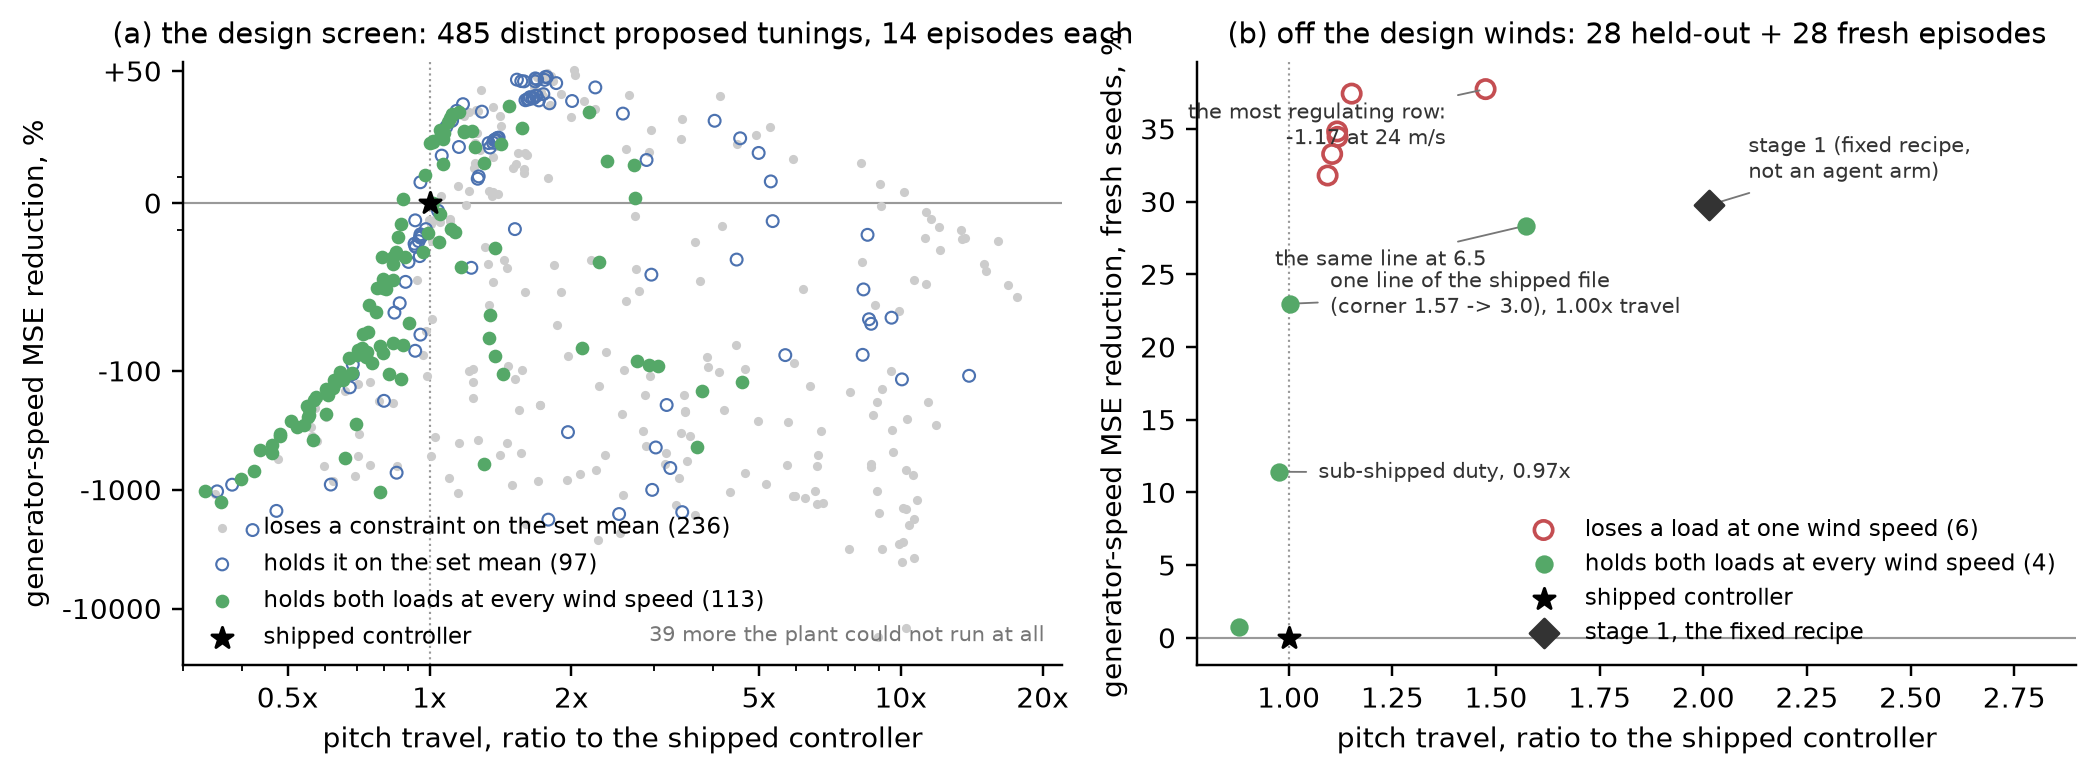
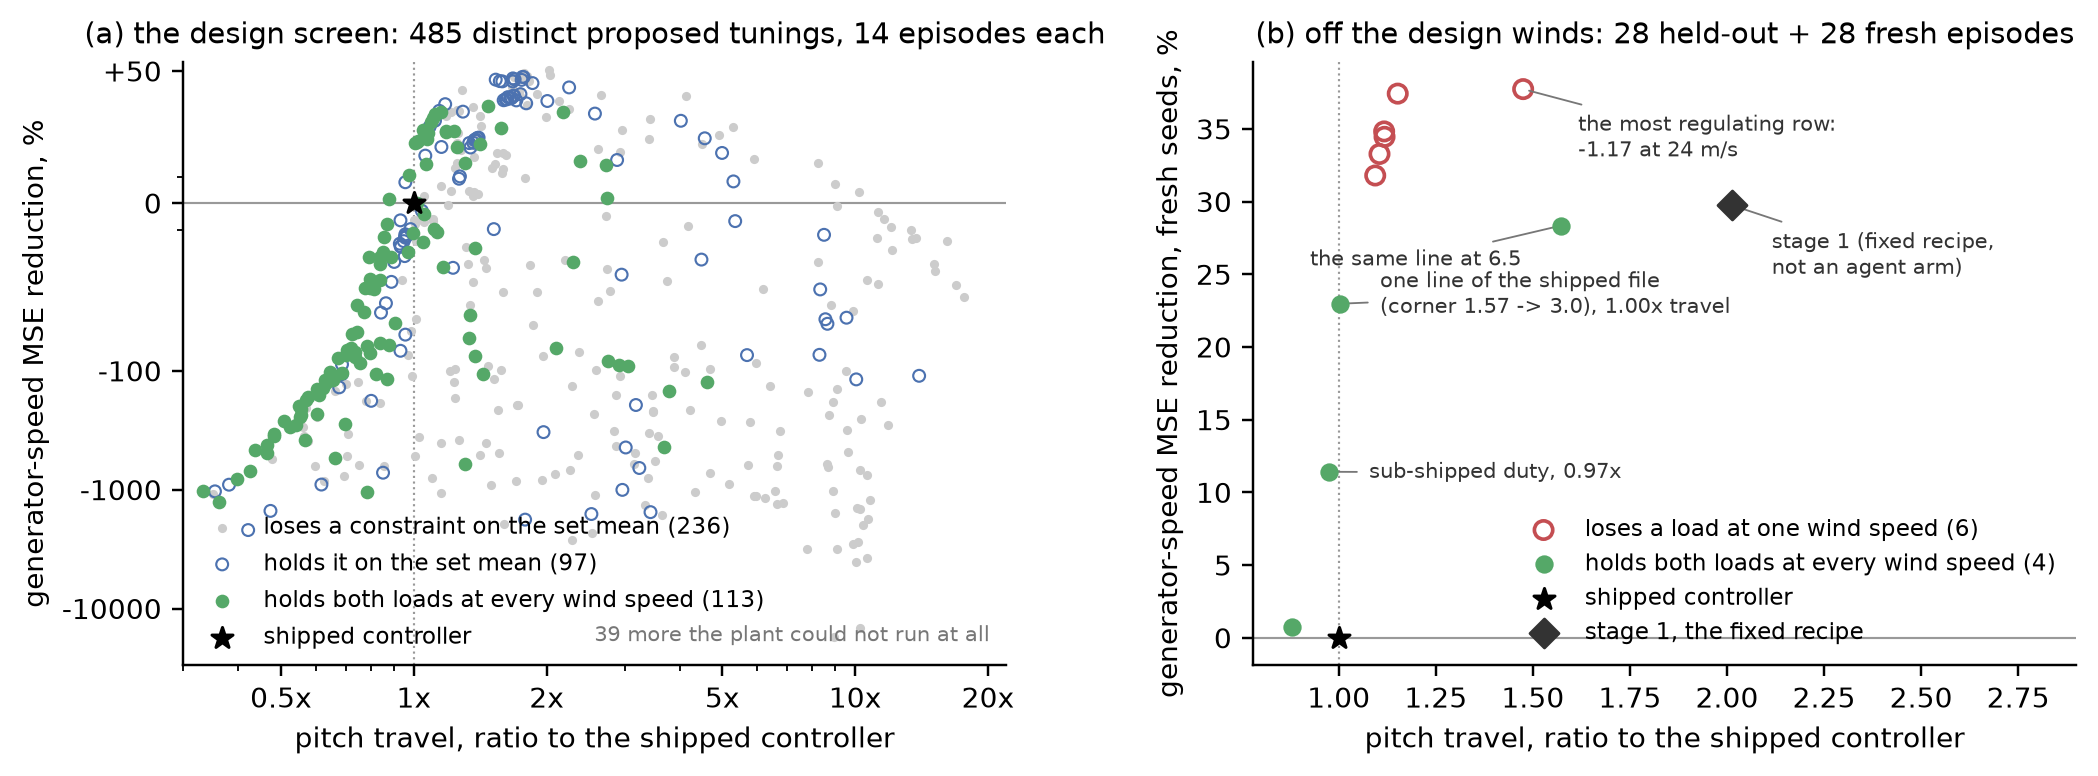
manuscript figures: the proposer outside the deterministic box in Fig. 1, labels off the points in Fig. 2(b), square panels in Fig. 3, references and appendix on new pages

diff --git a/docs/manuscript/main.tex b/docs/manuscript/main.tex
@@ -107,20 +107,23 @@ Figure~\ref{fig:loop} is the whole method. A proposer writes a candidate as a JS
 \centering
 \resizebox{\linewidth}{!}{%
 \begin{tikzpicture}[font=\small, node distance=5mm and 7mm,
-  box/.style={draw, rounded corners=2pt, align=center, inner sep=4pt, minimum height=9mm},
+  box/.style={draw, rounded corners=2pt, align=center, inner sep=4pt, text width=36mm, minimum height=17mm},
   arr/.style={-{Latex[length=2mm]}, thick}]
-  \node[box, fill=red!8] (agent) {proposer\\(the LLM agent, or a classical search)};
-  \node[box, right=of agent] (file) {candidate\\a complete tuning file: five ROSCO parameters};
+  % the deterministic half is two rows of boxes; the proposer stands outside it on the left, centred on the
+  % two rows, and its two arrows run in the gap between it and the dashed box
+  \node[box] (file) {candidate\\a complete tuning file: five ROSCO parameters};
   \node[box, right=of file] (sim) {OpenFAST, 600\,s\\7 wind speeds $\times$ 2 seeds, paired to shipped};
-  \node[box, below=of sim] (metrics) {four reductions, energy, travel, duty;\\per-wind load terms; bootstrap intervals};
-  \node[box, left=of metrics] (rule) {constrained rule\\maximise regulation s.t. loads, energy no worse};
-  \node[box, left=of rule] (hist) {history\\every candidate, kept or not};
-  \draw[arr] (agent) -- (file);
+  \node[box, right=of sim] (metrics) {four reductions, energy, travel, duty; per-wind load terms; bootstrap intervals};
+  \node[box, below=of metrics] (rule) {constrained rule\\maximise regulation s.t.\ loads, energy no worse};
+  \node[box, anchor=north] (hist) at (rule.north -| sim) {history\\every candidate,\\kept or not};
+  \node[box, fill=red!8, text width=28mm, anchor=east, xshift=-7mm] (agent)
+        at ($(file.west)!0.5!(file.west |- hist.west)$) {proposer\\(the LLM agent, or a classical search)};
+  \draw[arr] ([yshift=3mm]agent.east) -- ++(3.5mm,0) |- (file.west);
   \draw[arr] (file) -- (sim);
   \draw[arr] (sim) -- (metrics);
   \draw[arr] (metrics) -- (rule);
   \draw[arr] (rule) -- (hist);
-  \draw[arr] (hist) -- (agent);
+  \draw[arr] (hist.west) -| ([xshift=3.5mm,yshift=-3mm]agent.east) -- ([yshift=-3mm]agent.east);
   \node[draw, dashed, rounded corners=3pt, inner sep=5pt, fit=(file) (sim) (metrics) (rule) (hist),
         label={[font=\scriptsize]below:the deterministic half: nothing the proposer says is kept unless the plant confirms it}] {};
 \end{tikzpicture}}
@@ -345,8 +348,10 @@ MPC + layer (seed 1) & 18.9 & 29.4 & 40.6 & 43.7 & 46.0 & 58.0 & 64.9 & 43.7 & 3
 \label{sec:conclusion}
 A language-model agent placed in the simulation loop of a wind turbine's pitch controller, with the simulator deciding everything the agent proposes, found in eight simulations that one line of the shipped ROSCO tuning file is worth 23\,\% of generator-speed regulation and 9\,\% of tower-base fatigue at the shipped pitch duty, and a second line worth 28\,\% and 16\,\% for 1.65 times the travel, each holding every load term at every wind speed on 56 episodes it was not designed on, where random search over the same box found nothing in 72. The same loop repaired an untuned model-predictive controller's per-wind feasibility failure in 24 simulations and wrote the reward structure of a learned layer that adds six points of regulation to the tuned baseline without losing tower fatigue. Across 144 candidates it proposed none the plant could not run. The protocol under which this was measured, loads per wind speed off the design winds, paired intervals, duty beside every row, is what makes the claims checkable, and it is the part of this paper that should outlive its numbers.
 
+\clearpage
 \bibliographystyle{plainnat}
 \bibliography{references}
+\clearpage
 
 \appendix
 

diff --git a/scripts/dev/figures_overlay.py b/scripts/dev/figures_overlay.py
@@ -50,8 +50,8 @@ LEG2 = [
 ]
 # column in the CSV (the level), key in the JSON (the reduction), panel title, y label
 TERMS = [
-    ("power_mse_R3", "power_mse_red_pct", "power MSE", "per-episode power MSE, as scored"),
-    ("gen_speed_mse_R3", "gen_speed_mse_red_pct", "generator-speed MSE", "per-episode speed MSE, as scored"),
+    ("power_mse_R3", "power_mse_red_pct", "power MSE", "power MSE, as scored"),
+    ("gen_speed_mse_R3", "gen_speed_mse_red_pct", "generator-speed MSE", "speed MSE, as scored"),
     ("TwrBsMyt_DEL_MNm", "TwrBsMyt_DEL_red_pct", "tower-base DEL", "DEL, MN m"),
     ("RootMyc1_DEL_MNm", "RootMyc1_DEL_red_pct", "blade-root DEL", "DEL, MN m"),
 ]
@@ -121,16 +121,27 @@ for row, (leg, colours, styles) in enumerate(((LEG1, ("#55A868", "#2E7D4F"), ("-
         else:
             ax.set_xlabel("mean wind speed, m/s")
         ax.set_ylabel(ylab)
+# the two row headers are long and must not take part in the layout computation: with them in it, tight_layout
+# reserved the width of the header text for the first column and squeezed every panel to a third of its width
 axes[0][0].annotate("leg 1: the shipped pitch loop, tuned by the agent", (0.0, 1.16), xycoords="axes fraction",
-                    fontsize=8.5, fontweight="bold", ha="left")
+                    fontsize=8.5, fontweight="bold", ha="left", in_layout=False)
 axes[1][0].annotate("leg 2: the untuned MPC, scheduled by the agent", (0.0, 1.06), xycoords="axes fraction",
-                    fontsize=8.5, fontweight="bold", ha="left")
+                    fontsize=8.5, fontweight="bold", ha="left", in_layout=False)
+for ax in axes[1]:
+    ax.set_xticks([12, 16, 20, 24])
 h1, l1 = axes[0][0].get_legend_handles_labels()
 h2, l2 = axes[1][0].get_legend_handles_labels()
 fig.legend(h1 + h2[1:], l1 + l2[1:], loc="lower center", ncol=3, frameon=False, bbox_to_anchor=(0.5, -0.07))
 fig.suptitle(f"the levels the reductions are computed from: bin means over {len(common)} fresh-seed episodes "
              f"({a.seeds[1:]}), every curve on the same wind files", fontsize=8.5, y=1.03)
-fig.tight_layout()
+fig.tight_layout(h_pad=3.0)             # room for the second row header
+for _ in range(3):                      # each panel as long along the wind axis as it is tall
+    w, h = fig.get_size_inches()
+    boxes = [ax.get_position() for ax in axes.flat]
+    aw = float(np.mean([b.width for b in boxes])) * w
+    ah = float(np.mean([b.height for b in boxes])) * h
+    fig.set_size_inches(w, h * aw / ah)
+    fig.tight_layout(h_pad=3.0)
 fig.savefig(f"{a.out}/f5_overlay.png", bbox_inches="tight")
 print(f"-> {a.out}/f5_overlay.png")
 

diff --git a/scripts/dev/figures_leg1.py b/scripts/dev/figures_leg1.py
@@ -168,13 +168,13 @@ if os.path.exists(base):
             axb.scatter([bx], [by], s=44, marker="D", c="#333333", zorder=5,
                         label="stage 1, the fixed recipe")
             axb.annotate("stage 1 (fixed recipe,\nnot an agent arm)", (bx, by), textcoords="offset points",
-                         xytext=(13, 9), fontsize=7, color="#333333", ha="left",
+                         xytext=(13, -8), fontsize=7, color="#333333", ha="left", va="top",
                          arrowprops=dict(arrowstyle="-", lw=0.6, color="#777777"))
 
 LBL = {"llm_r1#9": ("one line of the shipped file\n(corner 1.57 -> 3.0), 1.00x travel", (13, -3), "left"),
        "llm_r1#11": ("the same line at 6.5", (-13, -13), "right"),
        "local_r0#22": ("sub-shipped duty, 0.97x", (13, -2), "left"),
-       "llm_r1#12": ("the most regulating row:\n-1.17 at 24 m/s", (-13, -18), "right")}
+       "llm_r1#12": ("the most regulating row:\n-1.17 at 24 m/s", (18, -22), "left")}
 for r in band:
     key = r.get("from", "")
     if key in LBL:
@@ -188,6 +188,7 @@ axb.set_ylabel("generator-speed MSE reduction, fresh seeds, %")
 axb.set_title("(b) off the design winds: 28 held-out + 28 fresh episodes")
 axb.legend(loc="lower right", frameon=False)
 fig.tight_layout()
+fig.subplots_adjust(wspace=0.30)          # the (a) title overhangs its axes; keep it off the (b) y label
 fig.savefig(f"{a.out}/f5_front.png", bbox_inches="tight")
 print(f"-> {a.out}/f5_front.png")
 
